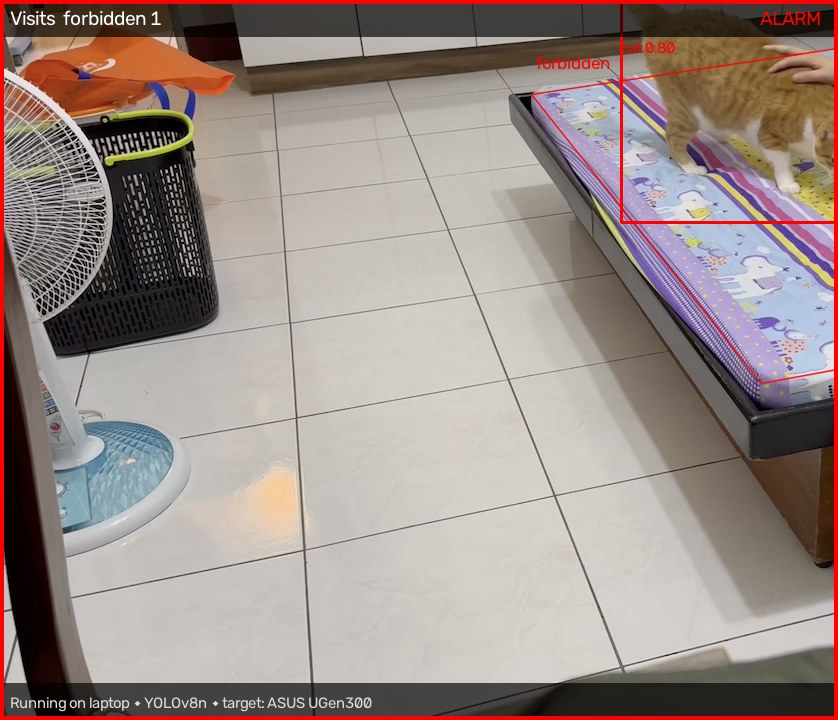
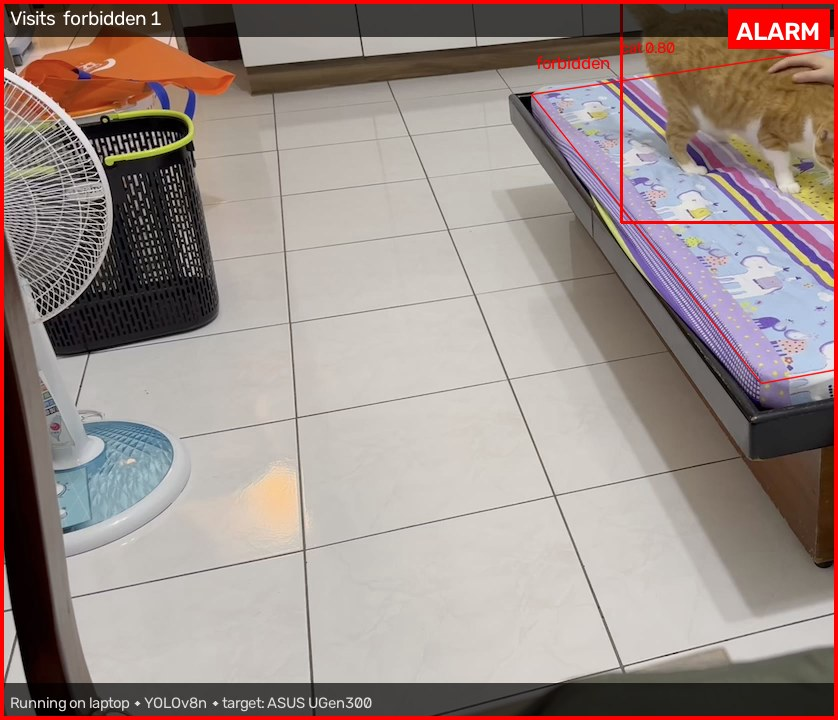
fix: ALARM is a solid red badge with bold white text
Thin red text on the dark top strip disappeared when the frame was scaled down on a
slide. Same badge in the live detection window and the video.

Changed region(s): [[0.8687, 0.0, 0.9928, 0.0917]]

diff --git a/pawwatch/overlay.py b/pawwatch/overlay.py
@@ -60,9 +60,19 @@ def render(
     _text(img, CAPTION, (round(16 * s), img.shape[0] - round(18 * s)), caption, (220, 220, 220))
     if zone == "forbidden":  # the alarm is ringing: make it visible in the recording too
         cv2.rectangle(img, (0, 0), (img.shape[1] - 1, img.shape[0] - 1), RED, max(4, round(8 * s)))
-        width = cv2.getTextSize("ALARM", FONT, s, thick)[0][0]
-        _text(img, "ALARM", (img.shape[1] - width - round(24 * s), round(38 * s)), s, RED)
+        alarm_badge(img, s)
     return img
+
+
+def alarm_badge(img: np.ndarray, s: float) -> None:
+    """Solid red badge with bold white "ALARM" at the top right, in place: readable even scaled down on a slide."""
+    size, bold = 1.3 * s, max(2, round(4 * s))
+    (w, h), base = cv2.getTextSize("ALARM", FONT, size, bold)
+    pad, margin = round(12 * s), round(14 * s)
+    x2, y1 = img.shape[1] - margin, margin
+    x1, y2 = x2 - w - 2 * pad, y1 + h + base + 2 * pad
+    cv2.rectangle(img, (x1, y1), (x2, y2), RED, -1)
+    cv2.putText(img, "ALARM", (x1 + pad, y2 - pad - base), FONT, size, (255, 255, 255), bold, cv2.LINE_AA)
 
 
 def scale(img: np.ndarray) -> float:
